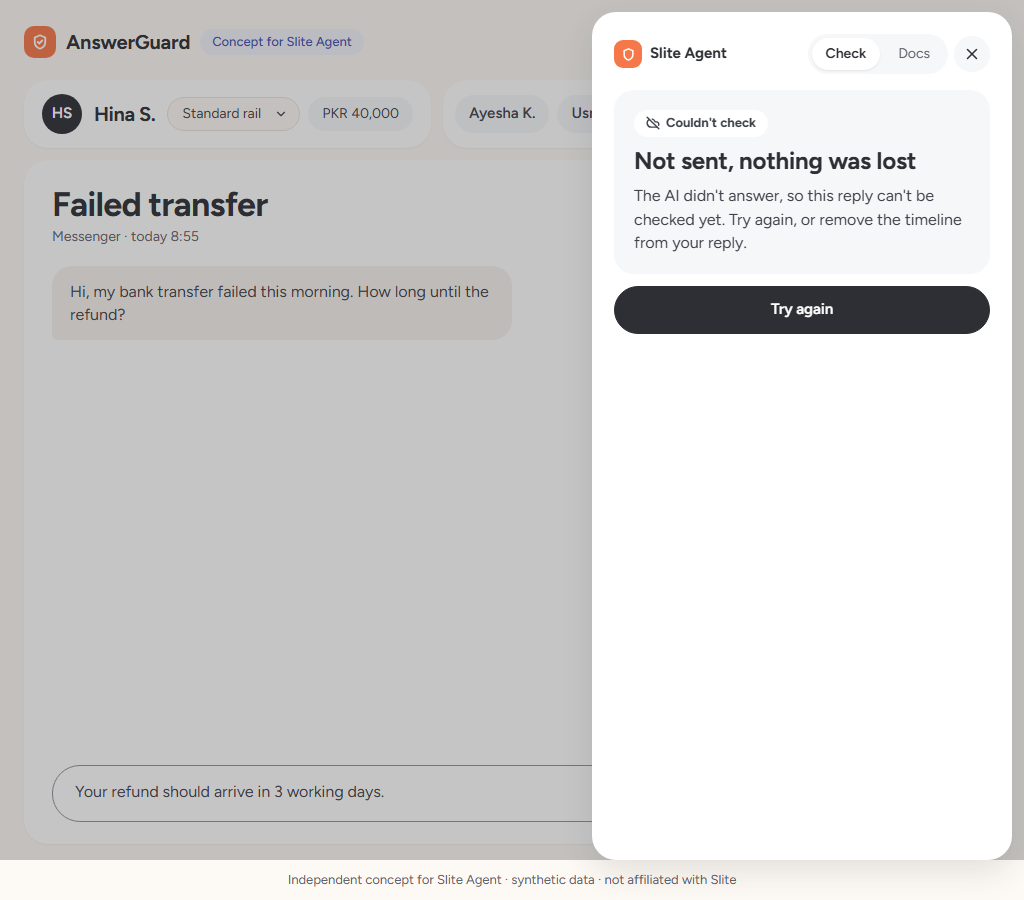
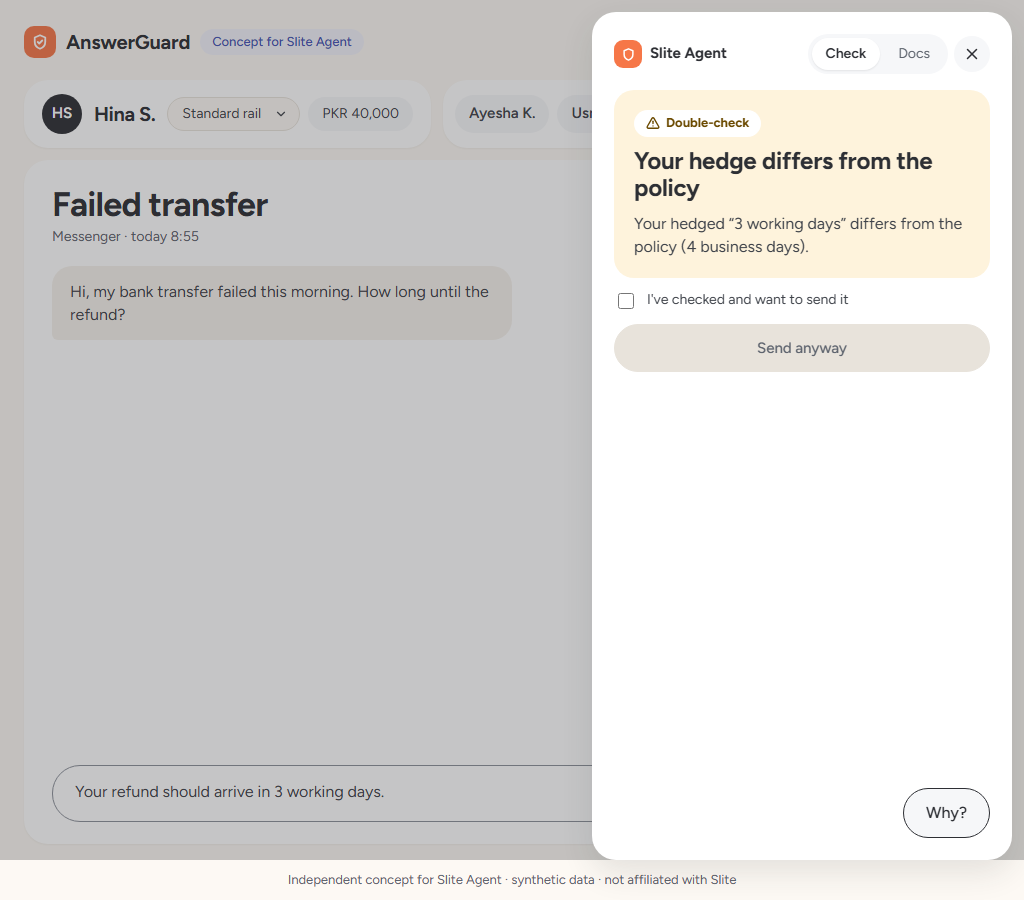
Phase 5: gate passed
Design v2 live at https://answerguard.vercel.app; demo test re-locked after QA.

Changed region(s): [[0.5938, 0.0933, 0.9688, 0.4356], [0.9062, 0.8711, 0.9375, 0.9333]]

diff --git a/scripts/ui-audit.ts b/scripts/ui-audit.ts
@@ -53,10 +53,13 @@ async function openConversation(page: Page, name: RegExp) {
 /** Under 1100 px the Slite Agent card is a slide-over / bottom sheet; open it if it's closed. */
 async function openAgent(page: Page) {
   const tab = page.getByRole("tab", { name: "Check", exact: true });
-  if (await tab.isVisible().catch(() => false)) return;
   const toggle = page.getByRole("button", { name: /Slite Agent$/ }).first();
+  // Wait for whichever renders first (the card itself on desktop, or the slide-over/sheet toggle); on a deployed site
+  // hydration can take longer than locally.
+  await Promise.race([tab.waitFor({ timeout: 15_000 }), toggle.waitFor({ timeout: 15_000 })]).catch(() => undefined);
+  if (await tab.isVisible().catch(() => false)) return;
   if (await toggle.isVisible().catch(() => false)) await toggle.click();
-  await tab.waitFor({ timeout: 5_000 });
+  await tab.waitFor({ timeout: 15_000 });
 }
 
 /** Send runs the check (POST /api/send). */
@@ -71,7 +74,9 @@ async function held(page: Page) {
   await page.getByRole("region", { name: "Decision" }).getByText("Hold").first().waitFor({ timeout: 20_000 });
 }
 
-const states: Array<{ name: string; run: (page: Page) => Promise<void> }> = [
+const isLocal = /\/\/(127\.0\.0\.1|localhost)[:/]/.test(base);
+
+const states: Array<{ name: string; localOnly?: boolean; run: (page: Page) => Promise<void> }> = [
   { name: "empty", run: async () => {} },
   { name: "held", run: held },
   {
@@ -123,6 +128,9 @@ const states: Array<{ name: string; run: (page: Page) => Promise<void> }> = [
   {
     // A draft with no saved AI response in AI_MODE=saved → 503 → "Not sent" + "Try again".
     name: "not-sent",
+    // Needs a draft with no saved response and no live AI (AI_MODE=saved). On a deployed site with live AI configured the
+    // draft is simply checked, so this state is only audited locally.
+    localOnly: true,
     run: async (page) => {
       await sendDraft(page, /Hina S\./, "Your refund should arrive in 3 working days.");
       await page.getByRole("button", { name: "Try again", exact: true }).waitFor({ timeout: 20_000 });
@@ -159,6 +167,7 @@ async function main() {
   const failed: string[] = [];
   for (const width of widths) {
     for (const state of states) {
+      if (state.localOnly && !isLocal) continue;
       const context = await browser.newContext({ viewport: { width, height: width < 700 ? 844 : 900 } });
       const page = await context.newPage();
       await page.goto(base);

diff --git a/PROGRESS.md b/PROGRESS.md
@@ -373,3 +373,74 @@ D:/Project/slite 3a3ff86 [main]
 ```
 
 GATE: PASSED
+
+## Phase 5
+**Design v2 restyle** (brief `design/v2/REDESIGN_PROMPT.md`; artboards `design/v2/*.dc.html`; D-026, D-027, D-028).
+- Send runs the check through `/api/send`: held → "Held by Slite Agent" + disabled "Send (held)" + intercept; Double-check → acknowledgement + Send anyway; AI unavailable → "Not sent, nothing was lost".
+- Layout: three cards. The Slite Agent card has 2 tabs (Check, Docs); Why and Trace are built from the real CheckResult.
+- Plain outcome names. Demo menu holds personas, Impact, AI mode, tour, reset. Figtree tokens; responsive at 1100/700; tour updated.
+- Engine, AI pipeline, API and engine tests unchanged.
+- **One-time unlock of the demo test (approved):** the test was rewritten to the v2 contract. QA compared it with the old test (every guarantee kept, two strengthened) and approved it, then the folder was re-locked:
+```
+# Locked paths (in addition to tests/, SPEC.md, IMPLEMENTATION_BRIEF.md, data/seed/). One per line.
+e2e/
+```
+- QA verdict: APPROVED. It checked the screenshots side by side with all 9 artboards at 1440 and 390, accepted the 5 D-027 deviations, and confirmed dynamic proof in v2 (B1 → Hold at 2 days, B2 → Double-check, B3 → Ask first, B7 → Double-check), outcome contrast 5.67–8.35:1, and DOC-105 hidden for Support agent. Minors were fixed or recorded in D-028.
+
+**Final local run** (`pnpm build && record-demo && pnpm typecheck && pnpm test && pnpm exec playwright test && ui-audit --serve`):
+```
+wrote docs/demo.gif and docs/demo.webm
+ Test Files  12 passed (12)
+      Tests  105 passed (105)
+  ok 1 [chromium] › e2e\demo.spec.ts:15:5 › wrong draft → Send → held → Use this reply → Send → sent → Demo menu shows 1 stopped (683ms)
+  1 passed (22.2s)
+Serious/critical axe violations: 0. Horizontal page scroll: none. States that failed to reach: none.
+P5_EXIT=0
+```
+
+**Deployed** to https://answerguard.vercel.app (CLI, production). Live smoke test:
+```
+GET / → 200 (1.09s) · GET /how-it-works → 200 · GET /demo.gif → 200 (4,672,703 B)
+support_agent seed: DOC-105 mentions 0
+POST /api/send wrong 4-day draft (TCK-9001) → HTTP 409 blocked HOLD (saved)
+Docs tab live: PASS docs@1024, PASS docs@390 (edit applied, no horizontal scroll)
+```
+**Live UI audit, desktop + phone** (`ui-audit.ts https://answerguard.vercel.app`; the AI-unavailable state is local-only because live AI answers):
+```
+empty         1440px  axe: none
+held          1440px  axe: none
+why           1440px  axe: none
+trace         1440px  axe: none
+docs          1440px  axe: none
+double-check  1440px  axe: none
+ask-first     1440px  axe: none
+sent          1440px  axe: none
+demo-menu     1440px  axe: none
+empty         1024px  axe: none
+held          1024px  axe: none
+why           1024px  axe: none
+trace         1024px  axe: none
+docs          1024px  axe: none
+double-check  1024px  axe: none
+ask-first     1024px  axe: none
+sent          1024px  axe: none
+demo-menu     1024px  axe: none
+empty          390px  axe: none
+held           390px  axe: none
+why            390px  axe: none
+trace          390px  axe: none
+docs           390px  axe: none
+double-check   390px  axe: none
+ask-first      390px  axe: none
+sent           390px  axe: none
+demo-menu      390px  axe: none
+Serious/critical axe violations: 0. Horizontal page scroll: none. States that failed to reach: none.
+LIVE_EXIT=0
+```
+
+**Worktrees:**
+```
+D:/Project/slite e40fd2b [main]
+```
+
+GATE: PASSED
